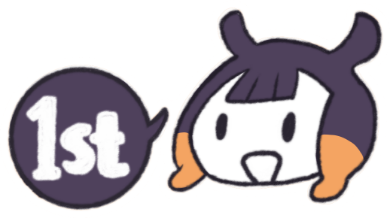
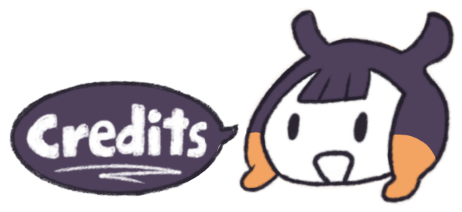
Changed MiniIna to credits version

diff --git a/src/components/Main/HomeFooter.tsx b/src/components/Main/HomeFooter.tsx
@@ -130,22 +130,22 @@ const Footer = styled.footer`
 
   .footer-img {
     margin: auto;
-    max-width: 300px;
-    width: 18vw;
+    max-width: 500px;
+    width: 20vw;
     margin-right: 30px;
 
     @media only screen and (max-width: 950px) {
       width: 100%;
-      max-width: 10em;
+      max-width: 30vw;
     }
 
     @media only screen and (max-width: 750px) {
-      max-width: 200px;
-      width: 30vw;
+      max-width: 250px;
+      width: 40vw;
     }
 
     @media only screen and (max-width: 350px) {
-      max-width: 100px;
+      max-width: 150px;
     }
 
     @media only screen and (max-width: 270px) {
